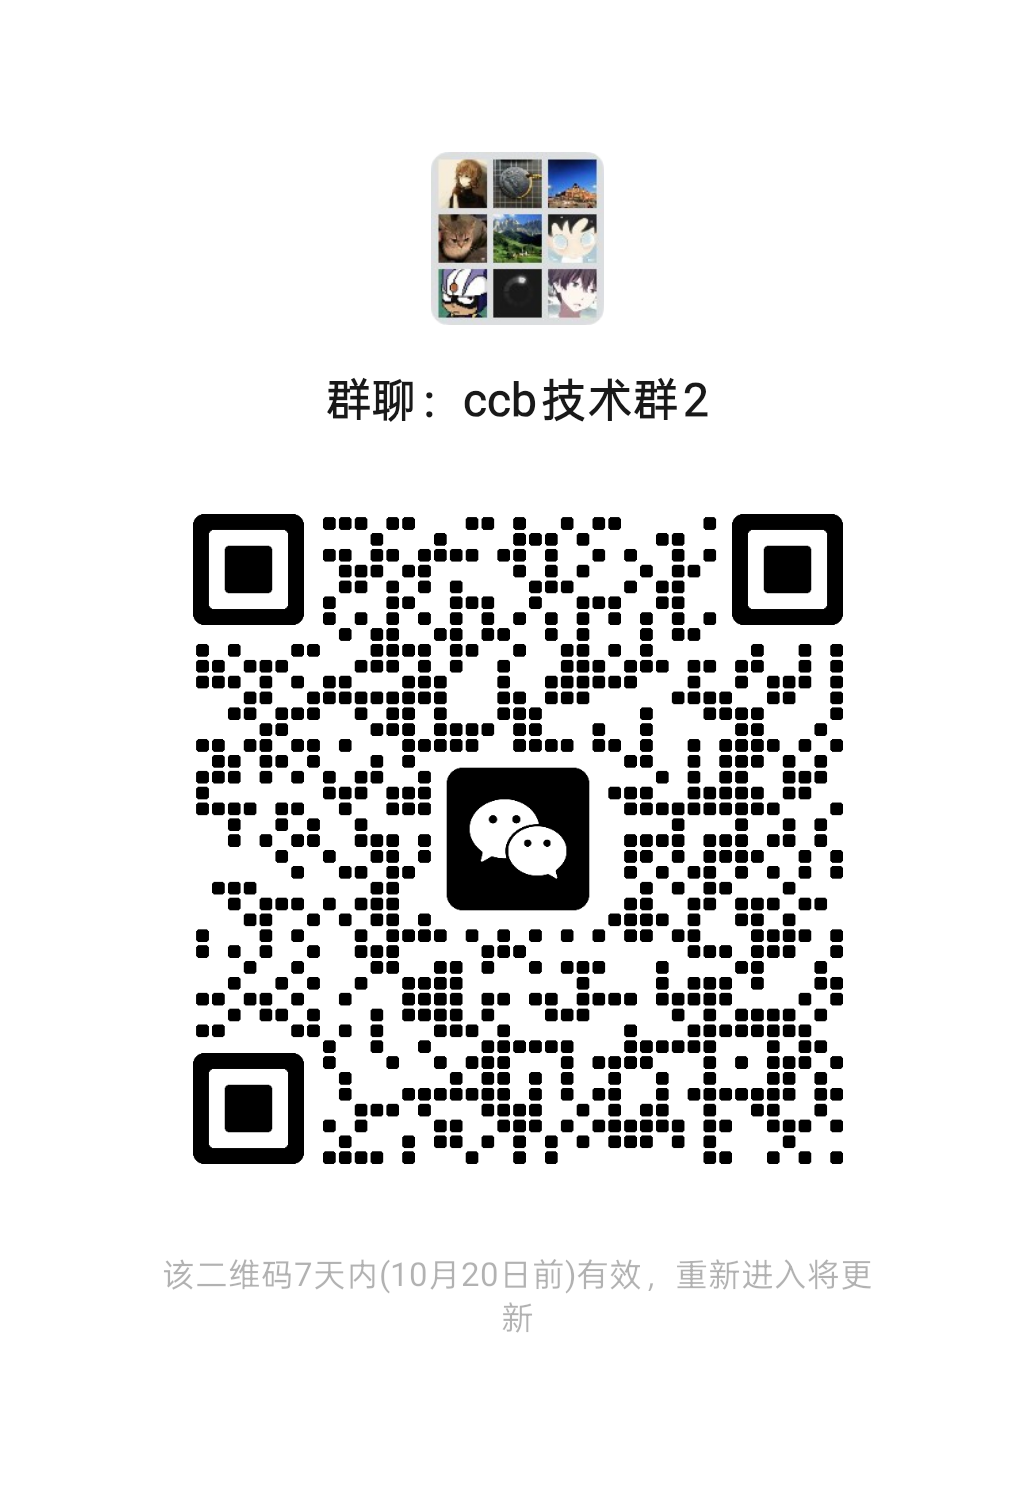
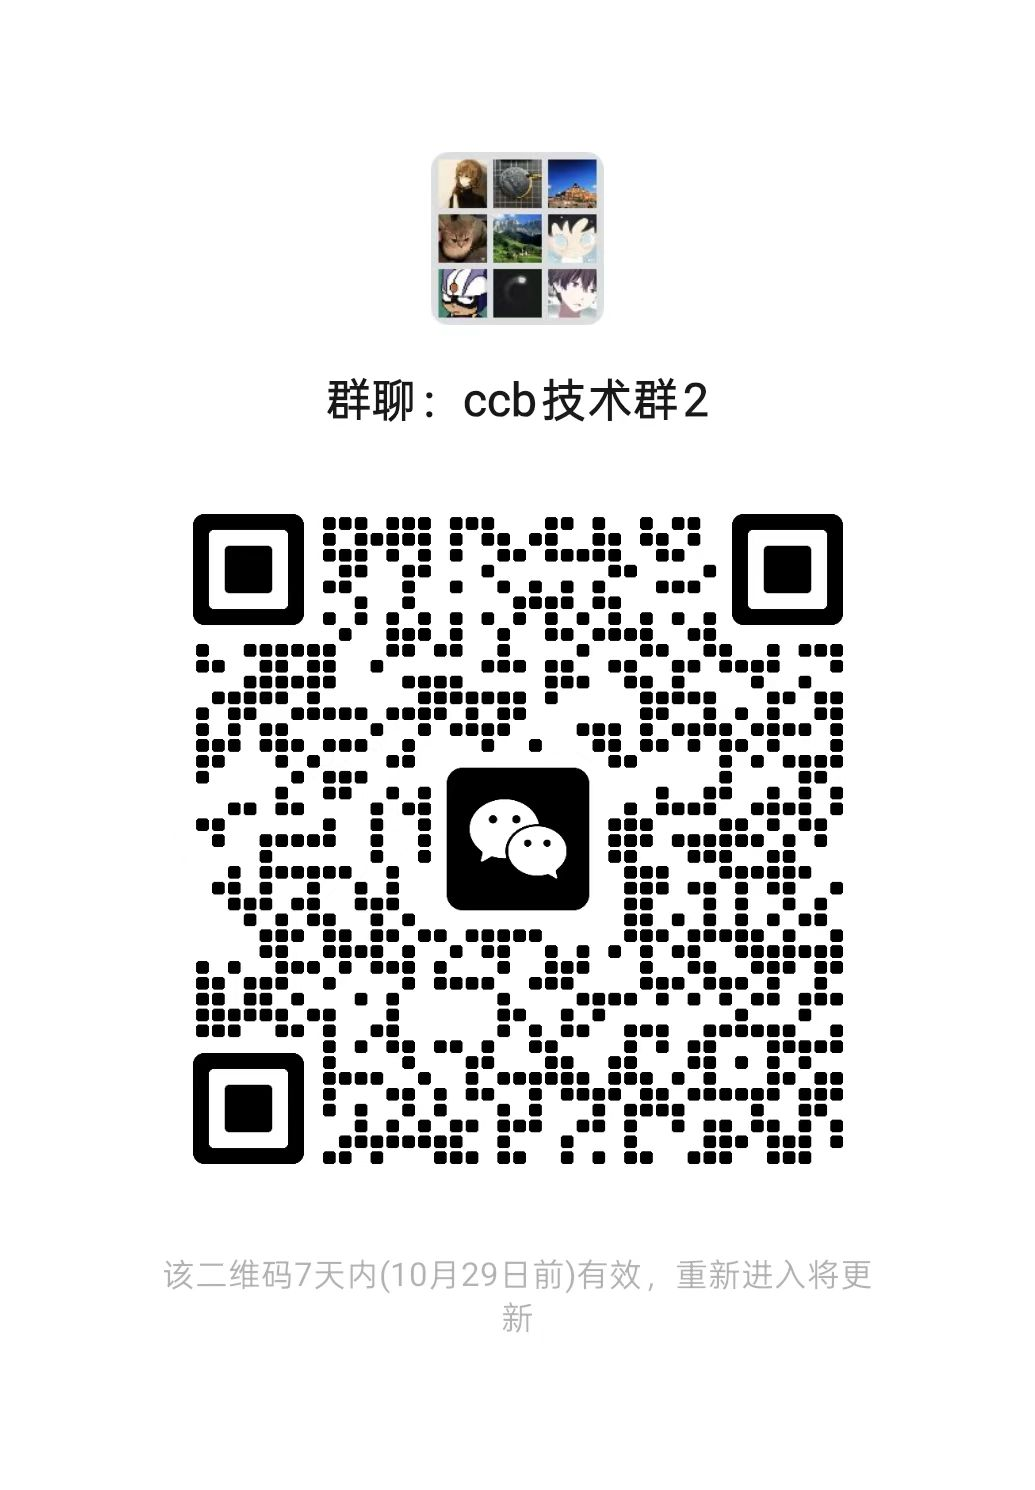
release: v8.7.16 include OMP Python ask identity fix and refresh WeChat QR

Changed region(s): [[0.1855, 0.3396, 0.8348, 0.8027]]

diff --git a/mobile/app/lib/app/app_update.dart b/mobile/app/lib/app/app_update.dart
@@ -7,7 +7,7 @@ import 'package:open_filex/open_filex.dart';
 import 'package:path/path.dart' as p;
 import 'package:path_provider/path_provider.dart';
 
-const ccbMobileDefaultVersion = '8.7.15+8070015';
+const ccbMobileDefaultVersion = '8.7.16+8070016';
 const ccbMobileDefaultApkDownloadUrl =
     'https://github.com/SeemSeam/claude_codex_bridge/releases/latest';
 const ccbMobileReleaseApiUrl =

diff --git a/lib/cli/services/mobile_update.py b/lib/cli/services/mobile_update.py
@@ -31,7 +31,7 @@ CCB_MOBILE_PAIRING_QR_OUTPUT_ENV = "CCB_MOBILE_PAIRING_QR_OUTPUT"
 MAX_INLINE_TERMINAL_QR_COLUMNS = 100
 DEFAULT_CCB_MOBILE_APP_DOWNLOAD_URL = (
     "https://github.com/SeemSeam/claude_codex_bridge/releases/download/"
-    "v8.7.15/ccb-mobile-v8.7.15.apk"
+    "v8.7.16/ccb-mobile-v8.7.16.apk"
 )
 TAILSCALE_LINUX_INSTALL_COMMAND = (
     "sh",

diff --git a/ccb.py b/ccb.py
@@ -63,7 +63,7 @@ backend_env = get_backend_env()
 if backend_env and not os.environ.get("CCB_BACKEND_ENV"):
     os.environ["CCB_BACKEND_ENV"] = backend_env
 
-VERSION = "8.7.15"
+VERSION = "8.7.16"
 GIT_COMMIT = "release"
 GIT_DATE = "2026-09-21"
 

diff --git a/docs/releases/v8.7.16.md b/docs/releases/v8.7.16.md
@@ -1,0 +1,43 @@
+# v8.7.16
+
+## English
+
+### OMP Python ask caller identity
+
+- Include commit `6d3ae4a53`. OMP's Python tool can filter `CCB_*` and `CODEX_*` from subprocess environments while retaining `PI_*`. An `ask` from a shared workspace could therefore be attributed to `user`, leaving its completed reply without an Agent mailbox return.
+- Recover the caller only when `PI_CODING_AGENT_DIR` canonically matches the current runtime's exact `agents/<configured-agent>/provider-state/omp/home/.omp/agent` path and the Agent uses OMP. Relocated runtime roots are supported.
+- Explicit sender and existing runtime/actor/session identity retain precedence. A supplied invalid runtime path is not overridden. Unmanaged homes, foreign projects, unknown Agents, other providers and escaping symlinks do not acquire an Agent identity.
+- Existing jobs are not relabeled or replayed. No Provider authentication, environment allowlist or native installation is changed. This does not repair unrelated human-turn supersession.
+
+### Community and compatibility
+
+- Replace the WeChat group 2 invitation image with the supplied QR, valid until October 29, and refresh all README image cache keys.
+- Retain all v8.7.15 incremental conversation and durable FIFO fixes. Update server and Android app together; queue runtime changes still require a normal restart of idle OMP Agents when safe. No active Agent is forcibly restarted by this release.
+- Linux OMP Collab and the legacy macOS route retain their existing boundaries. Other Provider routing is unchanged. Windows remains beta.
+
+### Verification scope
+
+- The included fix has recorded failing-before/passing-after regressions and an isolated probe using OMP 18.12.5's real `filterEnv`; see [identity evidence](../plantree/plans/inter-agent-comm-reliability/evidence/omp-python-ask-identity-20261022.md).
+- That probe verifies filtered-environment compatibility, not a live model roundtrip. Publication checks are performed separately for this release.
+- Release qualification: 253 identity/routing/provider/release regressions passed; `npm pack --dry-run` passed. A fresh filtered-environment subprocess recovered `frontdesk`, preserved explicit sender precedence and rejected an unmanaged home; the actual CLI printed `v8.7.16`. The stored QR matches the supplied image byte-for-byte and was visually checked.
+
+## 中文
+
+### OMP Python ask 调用者身份
+
+- 纳入提交 `6d3ae4a53`。OMP Python 工具可能过滤子进程环境中的 `CCB_*`、`CODEX_*`，但保留 `PI_*`。共享工作区内发起的 `ask` 因此可能被归为 `user`，任务完成后没有 Agent 邮箱接收回执。
+- 仅当 `PI_CODING_AGENT_DIR` 的规范路径精确匹配当前运行态的 `agents/<已配置Agent>/provider-state/omp/home/.omp/agent`，且该 Agent 使用 OMP 时恢复调用者；支持迁移后的运行态根目录。
+- 显式 sender 和原有 runtime/actor/session 身份优先级不变；已提供但无效的 runtime 路径不会被此回退覆盖。非托管目录、其他项目、未知 Agent、其他 Provider 及逃逸符号链接不会获得 Agent 身份。
+- 不重标记或重放历史任务，不修改 Provider 鉴权、环境白名单或原生安装；不声称修复人为回合取代等其他故障。
+
+### 社区与兼容性
+
+- 更新微信技术群 2 的邀请图及所有 README 图片缓存标识；用户提供的新二维码有效期至 10 月 29 日。
+- 保留 v8.7.15 的增量对话与持久化 FIFO 修复。服务器和 Android 应用一起更新；此前队列运行时变更仍需在安全空闲时正常重启 OMP Agent，本版不会强制重启活动 Agent。
+- Linux OMP Collab、Mac legacy 路由及其他 Provider 的边界保持不变，Windows 仍为 beta。
+
+### 验证边界
+
+- 本次纳入的修复已有先失败后通过的回归，以及调用 OMP 18.12.5 真实 `filterEnv` 的隔离探针，见[身份修复证据](../plantree/plans/inter-agent-comm-reliability/evidence/omp-python-ask-identity-20261022.md)。
+- 该探针证明过滤后环境兼容性，不代表真实模型往返；本版另行执行发布检查。
+- 本版发布检查：身份、路由、Provider 及打包相关回归 253 项通过，`npm pack --dry-run` 通过。独立过滤环境子进程恢复 `frontdesk`、保留显式 sender 优先级并拒绝非托管目录；实际 CLI 输出 `v8.7.16`。仓库二维码与附件字节一致，已目视核对。

diff --git a/README.md b/README.md
@@ -6,7 +6,7 @@
 **Coordinate Codex, Claude, Gemini, and other CLI agents in visible, controllable workflows you can take over**
 
 <p>
-  <img src="https://img.shields.io/badge/version-8.7.15-orange.svg" alt="version">
+  <img src="https://img.shields.io/badge/version-8.7.16-orange.svg" alt="version">
   <img src="https://img.shields.io/badge/platform-Linux%20%7C%20macOS%20%7C%20WSL%20%7C%20Windows%20beta-lightgrey.svg" alt="platform">
   <img src="https://img.shields.io/badge/providers-16%20CLI%20families-0B7285.svg" alt="providers">
 </p>
@@ -51,6 +51,10 @@
 - The background daemon keeps project state alive even when the foreground UI is closed.
 - Hub capability: run multiple CLI providers concurrently from one command.
 - Mobile remote controller: cross-provider voice control, file transfer, and remote terminal access.
+
+## New in 8.7.16: OMP Python Ask Sender Identity Recovery
+
+When CCB environment variables are filtered, OMP Python `ask` now recovers the sender identity from the exact configured managed `PI_CODING_AGENT_DIR`. Existing identity precedence is preserved, and historical jobs are not replayed. The WeChat group 2 QR code has also been refreshed and is valid until October 29. [Notes](docs/releases/v8.7.16.md).
 
 ## New in 8.7.15: Reliable OMP Mobile Turns
 
@@ -345,9 +349,9 @@ This command guides installation and configuration.
 <details>
 <summary><b>Mobile App details, safety boundary, and source</b></summary>
 
-CCB 8.7.15 includes the Flutter CCB Mobile source in [`mobile/`](mobile/) and publishes the Android APK through GitHub Releases:
+CCB 8.7.16 includes the Flutter CCB Mobile source in [`mobile/`](mobile/) and publishes the Android APK through GitHub Releases:
 
-- [Download CCB Mobile v8.7.15 APK](https://github.com/SeemSeam/claude_codex_bridge/releases/download/v8.7.15/ccb-mobile-v8.7.15.apk)
+- [Download CCB Mobile v8.7.16 APK](https://github.com/SeemSeam/claude_codex_bridge/releases/download/v8.7.16/ccb-mobile-v8.7.16.apk)
 - App source: [`mobile/app`](mobile/app)
 - Server gateway source: [`lib/mobile_gateway`](lib/mobile_gateway)
 
@@ -418,7 +422,7 @@ Supported managed Agents receive the built-in `ask`, `ccb-clear`, `ccb-compact`,
 - WeChat: `seemseam-com`
 
 <p align="center">
-  <img src="assets/weixin.png?v=583d37f5" alt="CCB WeChat group 2" width="240">
+  <img src="assets/weixin.png?v=a9f2d800" alt="CCB WeChat group 2" width="240">
 </p>
 
 > WeChat group QR codes are valid for seven days. If this one has expired, add `seemseam-com` to request the latest invitation.
@@ -436,6 +440,14 @@ Thanks to [tmux-agent-sidebar](https://github.com/hiroppy/tmux-agent-sidebar) fo
 ## Release Notes
 
 <details open>
+<summary><b>v8.7.16</b> - OMP Python ask sender identity recovery</summary>
+
+Recover the OMP Python `ask` sender identity from the exact configured managed `PI_CODING_AGENT_DIR` when CCB environment variables are filtered, while preserving existing identity precedence and without replaying historical jobs. Refresh the WeChat group 2 QR code, valid until October 29.
+
+[Full bilingual notes](docs/releases/v8.7.16.md).
+</details>
+
+<details>
 <summary><b>v8.7.15</b> - Reliable OMP Mobile turns</summary>
 
 Preserve earlier reply text across same-session incremental updates, fold tool reasoning in place, and serialize runtime sends through a persisted FIFO. Queued sends remain visible but do not steer an active turn; unknown disconnect outcomes are held rather than blindly replayed. Includes the 8.7.14 Relay and large-history fixes on Linux; the legacy macOS route is unchanged.

diff --git a/README/ru.md b/README/ru.md
@@ -6,7 +6,7 @@
 **Координируйте Codex, Claude, Gemini и другие CLI Agent в видимых и управляемых процессах, которые можно напрямую взять под контроль**
 
 <p>
-  <img src="https://img.shields.io/badge/version-8.7.15-orange.svg" alt="version">
+  <img src="https://img.shields.io/badge/version-8.7.16-orange.svg" alt="version">
   <img src="https://img.shields.io/badge/platform-Linux%20%7C%20macOS%20%7C%20WSL-lightgrey.svg" alt="platform">
   <img src="https://img.shields.io/badge/providers-16%20CLI%20families-0B7285.svg" alt="providers">
 </p>
@@ -184,7 +184,7 @@ ccb update mobile
 
 CCB 8.6.6 включает Flutter source CCB Mobile в [`mobile/`](../mobile/) и публикует Android APK через GitHub Releases:
 
-- [Скачать CCB Mobile v8.7.15 APK](https://github.com/SeemSeam/claude_codex_bridge/releases/download/v8.7.15/ccb-mobile-v8.7.15.apk)
+- [Скачать CCB Mobile v8.7.16 APK](https://github.com/SeemSeam/claude_codex_bridge/releases/download/v8.7.16/ccb-mobile-v8.7.16.apk)
 - Исходники app: [`mobile/app`](../mobile/app)
 - Исходники server gateway: [`lib/mobile_gateway`](../lib/mobile_gateway)
 
@@ -247,7 +247,7 @@ CCB поддерживает [Agent Roles Spec](https://github.com/SeemSeam/agen
 - WeChat: `seemseam-com`
 
 <p align="center">
-  <img src="../assets/weixin.png?v=583d37f5" alt="Группа WeChat" width="240">
+  <img src="../assets/weixin.png?v=a9f2d800" alt="Группа WeChat" width="240">
 </p>
 
 <a id="community"></a>
@@ -263,6 +263,14 @@ CCB поддерживает [Agent Roles Spec](https://github.com/SeemSeam/agen
 ## Release Notes
 
 <details open>
+<summary><b>v8.7.16</b> - OMP Python ask sender identity recovery</summary>
+
+Recover the OMP Python `ask` sender identity from the exact configured managed `PI_CODING_AGENT_DIR` when CCB environment variables are filtered, while preserving existing identity precedence and without replaying historical jobs. Refresh the WeChat group 2 QR code, valid until October 29.
+
+[Full bilingual notes](../docs/releases/v8.7.16.md).
+</details>
+
+<details>
 <summary><b>v8.7.15</b> - Incremental turn history and persisted FIFO delivery</summary>
 
 Preserve the complete historical body of same-session incremental turns while collapsing tool reasoning. Sends made while an agent is running now enter a persisted FIFO and execute serially: queued items stay visible without steering the active turn, while items with unknown delivery after a disconnect are held instead of blindly replayed. This release also includes v8.7.14's Relay large-history fixes. The changes are Linux-only; macOS keeps its legacy route unchanged.

diff --git a/README/de.md b/README/de.md
@@ -6,7 +6,7 @@
 **Koordiniere Codex, Claude, Gemini und andere CLI-Agenten in sichtbaren, steuerbaren Workflows, die du direkt uebernehmen kannst**
 
 <p>
-  <img src="https://img.shields.io/badge/version-8.7.15-orange.svg" alt="version">
+  <img src="https://img.shields.io/badge/version-8.7.16-orange.svg" alt="version">
   <img src="https://img.shields.io/badge/platform-Linux%20%7C%20macOS%20%7C%20WSL-lightgrey.svg" alt="platform">
   <img src="https://img.shields.io/badge/providers-16%20CLI%20families-0B7285.svg" alt="providers">
 </p>
@@ -184,7 +184,7 @@ Dieser Befehl fuehrt durch Installation und Konfiguration.
 
 CCB 8.6.6 enthaelt den Flutter-Quellcode von CCB Mobile in [`mobile/`](../mobile/) und veroeffentlicht das Android APK ueber GitHub Releases:
 
-- [CCB Mobile v8.7.15 APK herunterladen](https://github.com/SeemSeam/claude_codex_bridge/releases/download/v8.7.15/ccb-mobile-v8.7.15.apk)
+- [CCB Mobile v8.7.16 APK herunterladen](https://github.com/SeemSeam/claude_codex_bridge/releases/download/v8.7.16/ccb-mobile-v8.7.16.apk)
 - App-Source: [`mobile/app`](../mobile/app)
 - Server-gateway-Source: [`lib/mobile_gateway`](../lib/mobile_gateway)
 
@@ -247,7 +247,7 @@ Für normale Projektkonfigurationen wird das **⚙ Einstellungen**-Panel empfohl
 - WeChat: `seemseam-com`
 
 <p align="center">
-  <img src="../assets/weixin.png?v=583d37f5" alt="WeChat-Gruppe" width="240">
+  <img src="../assets/weixin.png?v=a9f2d800" alt="WeChat-Gruppe" width="240">
 </p>
 
 <a id="community"></a>
@@ -263,6 +263,14 @@ Danke an [tmux-agent-sidebar](https://github.com/hiroppy/tmux-agent-sidebar) fue
 ## Release Notes
 
 <details open>
+<summary><b>v8.7.16</b> - OMP Python ask sender identity recovery</summary>
+
+Recover the OMP Python `ask` sender identity from the exact configured managed `PI_CODING_AGENT_DIR` when CCB environment variables are filtered, while preserving existing identity precedence and without replaying historical jobs. Refresh the WeChat group 2 QR code, valid until October 29.
+
+[Full bilingual notes](../docs/releases/v8.7.16.md).
+</details>
+
+<details>
 <summary><b>v8.7.15</b> - Incremental turn history and persisted FIFO delivery</summary>
 
 Preserve the complete historical body of same-session incremental turns while collapsing tool reasoning. Sends made while an agent is running now enter a persisted FIFO and execute serially: queued items stay visible without steering the active turn, while items with unknown delivery after a disconnect are held instead of blindly replayed. This release also includes v8.7.14's Relay large-history fixes. The changes are Linux-only; macOS keeps its legacy route unchanged.

diff --git a/README/fr.md b/README/fr.md
@@ -6,7 +6,7 @@
 **Coordonne Codex, Claude, Gemini et d'autres agents CLI dans des workflows visibles, contrôlables et reprenables directement**
 
 <p>
-  <img src="https://img.shields.io/badge/version-8.7.15-orange.svg" alt="version">
+  <img src="https://img.shields.io/badge/version-8.7.16-orange.svg" alt="version">
   <img src="https://img.shields.io/badge/platform-Linux%20%7C%20macOS%20%7C%20WSL-lightgrey.svg" alt="platform">
   <img src="https://img.shields.io/badge/providers-16%20CLI%20families-0B7285.svg" alt="providers">
 </p>
@@ -184,7 +184,7 @@ Cette commande guide l'installation et la configuration.
 
 CCB 8.6.6 inclut le code source Flutter de CCB Mobile dans [`mobile/`](../mobile/) et publie l'APK Android via GitHub Releases :
 
-- [Télécharger l'APK CCB Mobile v8.7.15](https://github.com/SeemSeam/claude_codex_bridge/releases/download/v8.7.15/ccb-mobile-v8.7.15.apk)
+- [Télécharger l'APK CCB Mobile v8.7.16](https://github.com/SeemSeam/claude_codex_bridge/releases/download/v8.7.16/ccb-mobile-v8.7.16.apk)
 - Source de l'app : [`mobile/app`](../mobile/app)
 - Source du gateway serveur : [`lib/mobile_gateway`](../lib/mobile_gateway)
 
@@ -247,7 +247,7 @@ Pour la configuration courante du projet, utilisez le panneau **⚙ Paramètres*
 - WeChat: `seemseam-com`
 
 <p align="center">
-  <img src="../assets/weixin.png?v=583d37f5" alt="Groupe WeChat" width="240">
+  <img src="../assets/weixin.png?v=a9f2d800" alt="Groupe WeChat" width="240">
 </p>
 
 <a id="community"></a>
@@ -263,6 +263,14 @@ Merci à [tmux-agent-sidebar](https://github.com/hiroppy/tmux-agent-sidebar) pou
 ## Notes de version
 
 <details open>
+<summary><b>v8.7.16</b> - OMP Python ask sender identity recovery</summary>
+
+Recover the OMP Python `ask` sender identity from the exact configured managed `PI_CODING_AGENT_DIR` when CCB environment variables are filtered, while preserving existing identity precedence and without replaying historical jobs. Refresh the WeChat group 2 QR code, valid until October 29.
+
+[Full bilingual notes](../docs/releases/v8.7.16.md).
+</details>
+
+<details>
 <summary><b>v8.7.15</b> - Incremental turn history and persisted FIFO delivery</summary>
 
 Preserve the complete historical body of same-session incremental turns while collapsing tool reasoning. Sends made while an agent is running now enter a persisted FIFO and execute serially: queued items stay visible without steering the active turn, while items with unknown delivery after a disconnect are held instead of blindly replayed. This release also includes v8.7.14's Relay large-history fixes. The changes are Linux-only; macOS keeps its legacy route unchanged.

diff --git a/README/es.md b/README/es.md
@@ -6,7 +6,7 @@
 **Coordina Codex, Claude, Gemini y otros agentes CLI en flujos visibles y controlables que puedes tomar directamente**
 
 <p>
-  <img src="https://img.shields.io/badge/version-8.7.15-orange.svg" alt="version">
+  <img src="https://img.shields.io/badge/version-8.7.16-orange.svg" alt="version">
   <img src="https://img.shields.io/badge/platform-Linux%20%7C%20macOS%20%7C%20WSL-lightgrey.svg" alt="platform">
   <img src="https://img.shields.io/badge/providers-16%20CLI%20families-0B7285.svg" alt="providers">
 </p>
@@ -184,7 +184,7 @@ Este comando guía la instalación y configuración.
 
 CCB 8.6.6 incluye el código Flutter de CCB Mobile en [`mobile/`](../mobile/) y publica el APK Android mediante GitHub Releases:
 
-- [Descargar CCB Mobile v8.7.15 APK](https://github.com/SeemSeam/claude_codex_bridge/releases/download/v8.7.15/ccb-mobile-v8.7.15.apk)
+- [Descargar CCB Mobile v8.7.16 APK](https://github.com/SeemSeam/claude_codex_bridge/releases/download/v8.7.16/ccb-mobile-v8.7.16.apk)
 - Fuente de la app: [`mobile/app`](../mobile/app)
 - Fuente del gateway del servidor: [`lib/mobile_gateway`](../lib/mobile_gateway)
 
@@ -247,7 +247,7 @@ Para la configuración normal del proyecto, usa el panel **⚙ Configuración**.
 - WeChat: `seemseam-com`
 
 <p align="center">
-  <img src="../assets/weixin.png?v=583d37f5" alt="Grupo WeChat" width="240">
+  <img src="../assets/weixin.png?v=a9f2d800" alt="Grupo WeChat" width="240">
 </p>
 
 <a id="community"></a>
@@ -263,6 +263,14 @@ Gracias a [tmux-agent-sidebar](https://github.com/hiroppy/tmux-agent-sidebar) po
 ## Notas de versión
 
 <details open>
+<summary><b>v8.7.16</b> - OMP Python ask sender identity recovery</summary>
+
+Recover the OMP Python `ask` sender identity from the exact configured managed `PI_CODING_AGENT_DIR` when CCB environment variables are filtered, while preserving existing identity precedence and without replaying historical jobs. Refresh the WeChat group 2 QR code, valid until October 29.
+
+[Full bilingual notes](../docs/releases/v8.7.16.md).
+</details>
+
+<details>
 <summary><b>v8.7.15</b> - Incremental turn history and persisted FIFO delivery</summary>
 
 Preserve the complete historical body of same-session incremental turns while collapsing tool reasoning. Sends made while an agent is running now enter a persisted FIFO and execute serially: queued items stay visible without steering the active turn, while items with unknown delivery after a disconnect are held instead of blindly replayed. This release also includes v8.7.14's Relay large-history fixes. The changes are Linux-only; macOS keeps its legacy route unchanged.

diff --git a/README/pt.md b/README/pt.md
@@ -6,7 +6,7 @@
 **Coordene Codex, Claude, Gemini e outros agentes CLI em fluxos visíveis e controláveis que você pode assumir diretamente**
 
 <p>
-  <img src="https://img.shields.io/badge/version-8.7.15-orange.svg" alt="version">
+  <img src="https://img.shields.io/badge/version-8.7.16-orange.svg" alt="version">
   <img src="https://img.shields.io/badge/platform-Linux%20%7C%20macOS%20%7C%20WSL-lightgrey.svg" alt="platform">
   <img src="https://img.shields.io/badge/providers-16%20CLI%20families-0B7285.svg" alt="providers">
 </p>
@@ -184,7 +184,7 @@ Esse comando orienta a instalação e a configuração.
 
 O CCB 8.6.6 inclui o código Flutter do CCB Mobile em [`mobile/`](../mobile/) e publica o APK Android pelo GitHub Releases:
 
-- [Baixar CCB Mobile v8.7.15 APK](https://github.com/SeemSeam/claude_codex_bridge/releases/download/v8.7.15/ccb-mobile-v8.7.15.apk)
+- [Baixar CCB Mobile v8.7.16 APK](https://github.com/SeemSeam/claude_codex_bridge/releases/download/v8.7.16/ccb-mobile-v8.7.16.apk)
 - Fonte do app: [`mobile/app`](../mobile/app)
 - Fonte do gateway servidor: [`lib/mobile_gateway`](../lib/mobile_gateway)
 
@@ -247,7 +247,7 @@ Para a configuração normal do projeto, use o painel **⚙ Configurações**. P
 - WeChat: `seemseam-com`
 
 <p align="center">
-  <img src="../assets/weixin.png?v=583d37f5" alt="Grupo WeChat" width="240">
+  <img src="../assets/weixin.png?v=a9f2d800" alt="Grupo WeChat" width="240">
 </p>
 
 <a id="community"></a>
@@ -263,6 +263,14 @@ Obrigado ao [tmux-agent-sidebar](https://github.com/hiroppy/tmux-agent-sidebar) 
 ## Notas de versão
 
 <details open>
+<summary><b>v8.7.16</b> - OMP Python ask sender identity recovery</summary>
+
+Recover the OMP Python `ask` sender identity from the exact configured managed `PI_CODING_AGENT_DIR` when CCB environment variables are filtered, while preserving existing identity precedence and without replaying historical jobs. Refresh the WeChat group 2 QR code, valid until October 29.
+
+[Full bilingual notes](../docs/releases/v8.7.16.md).
+</details>
+
+<details>
 <summary><b>v8.7.15</b> - Incremental turn history and persisted FIFO delivery</summary>
 
 Preserve the complete historical body of same-session incremental turns while collapsing tool reasoning. Sends made while an agent is running now enter a persisted FIFO and execute serially: queued items stay visible without steering the active turn, while items with unknown delivery after a disconnect are held instead of blindly replayed. This release also includes v8.7.14's Relay large-history fixes. The changes are Linux-only; macOS keeps its legacy route unchanged.
